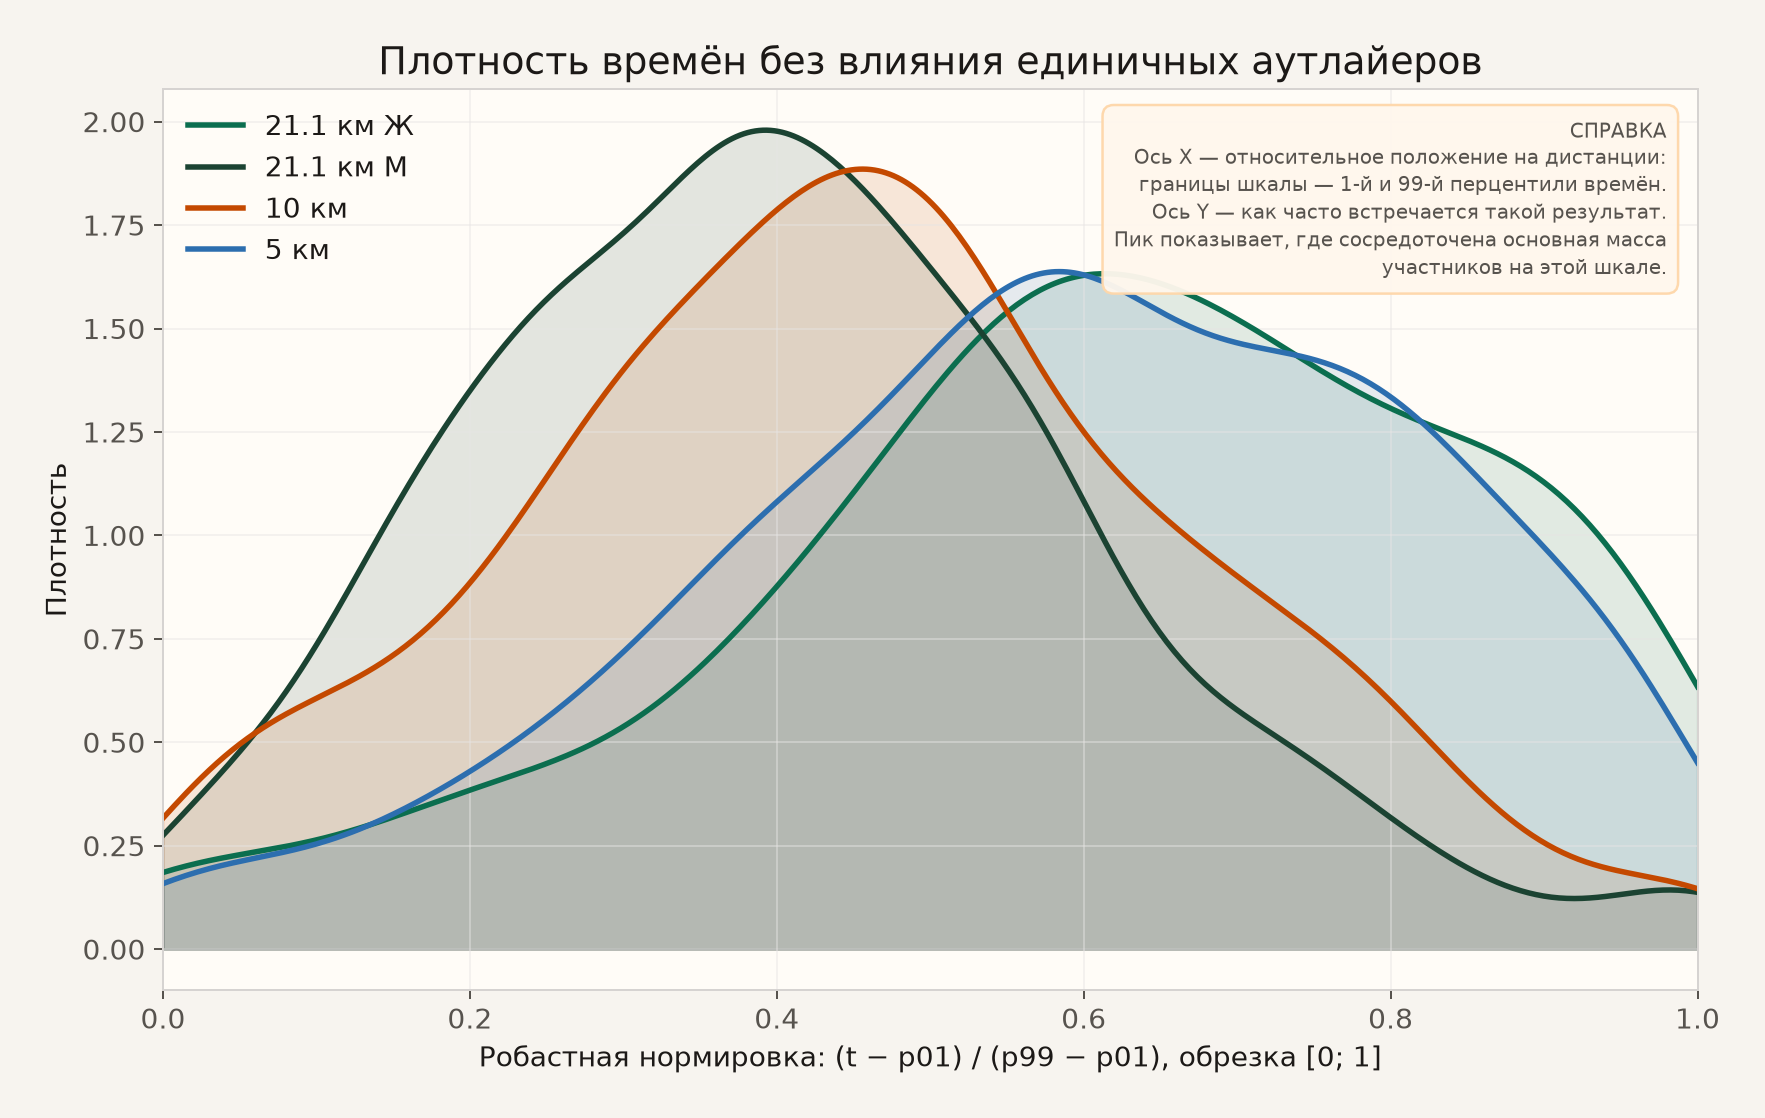
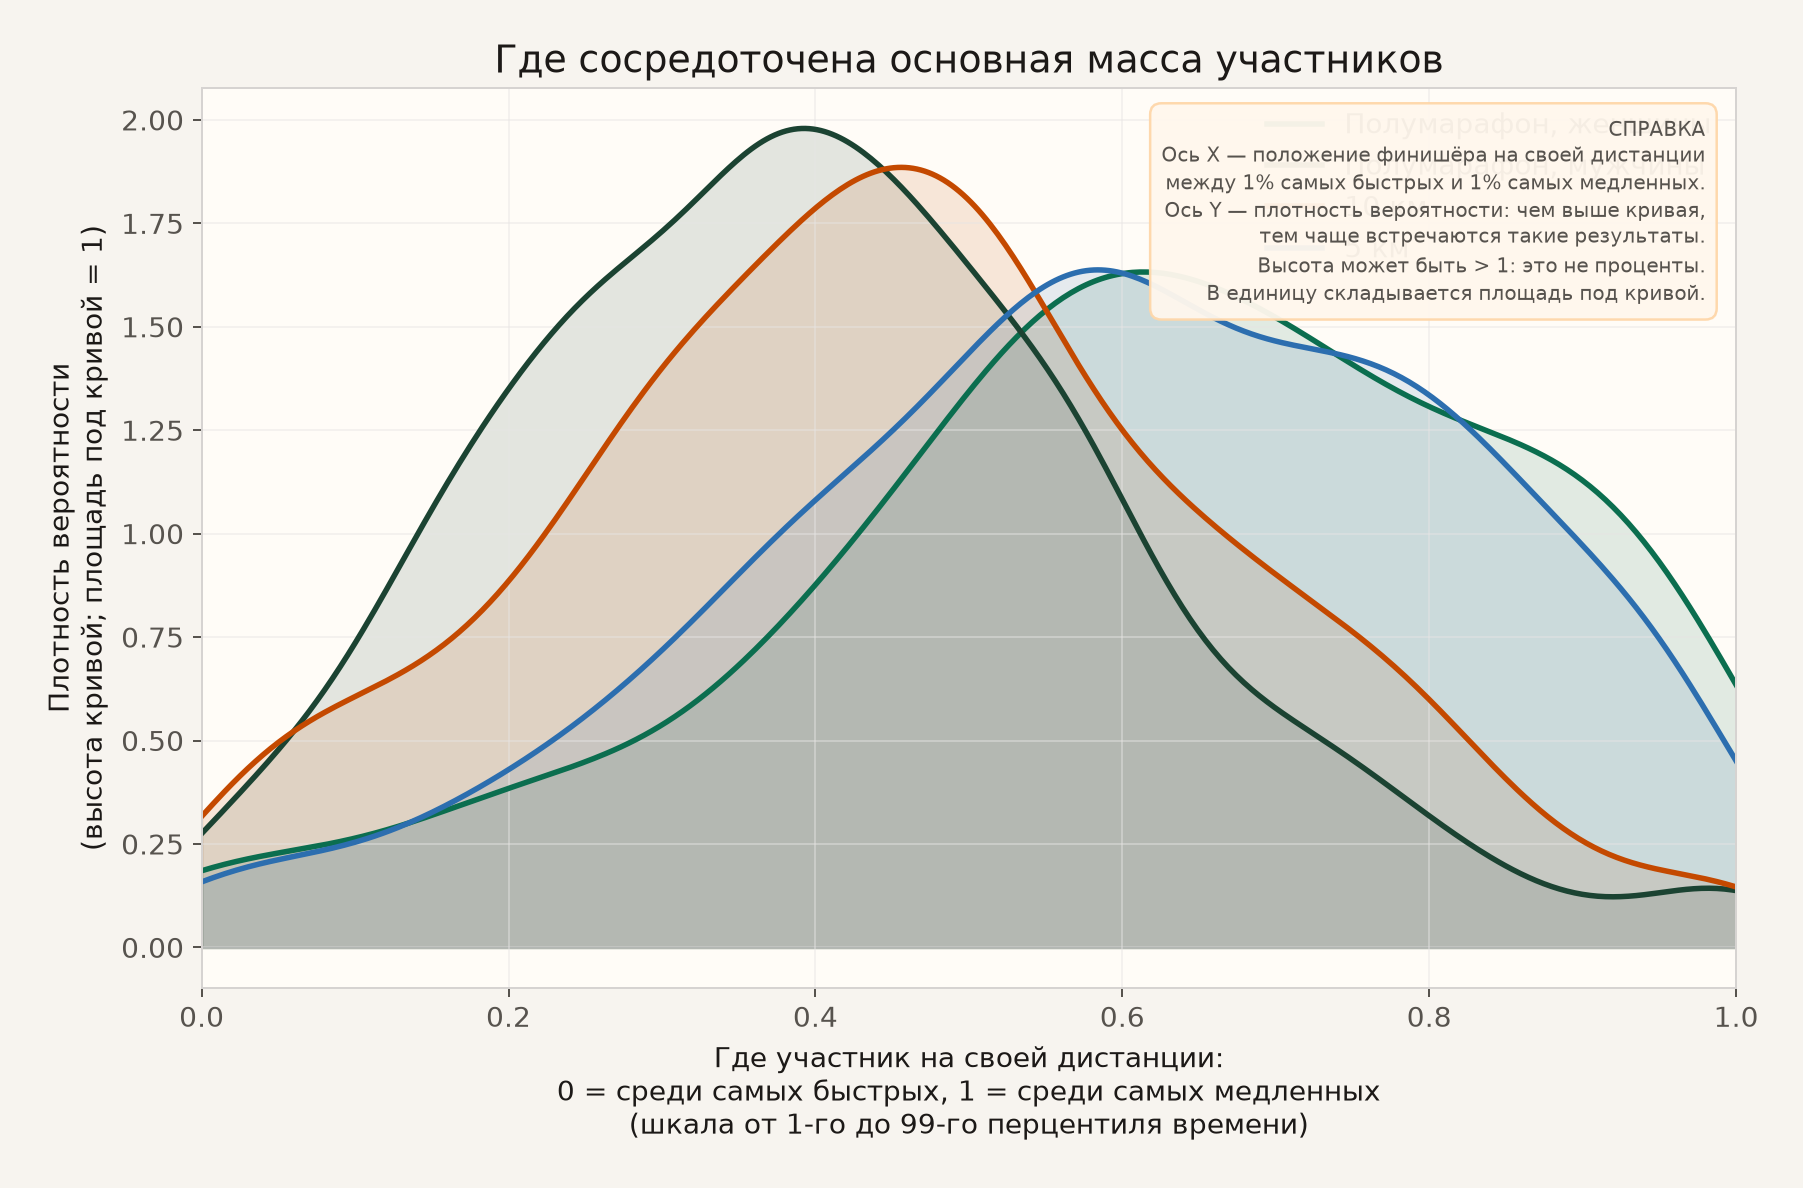
Пояснить ось плотности: высота может быть > 1

diff --git a/src/plot_analysis.py b/src/plot_analysis.py
@@ -539,22 +539,30 @@ def plot_kde_p1p99(df: pd.DataFrame) -> None:
         if len(g) < 20:
             continue
         kde = stats.gaussian_kde(g.clip(0, 1))
-        ax.plot(xs, kde(xs), lw=2.2, color=COLORS[race], label=race)
+        ax.plot(xs, kde(xs), lw=2.2, color=COLORS[race], label=RACE_LABEL[race].replace("\n", " "))
         ax.fill_between(xs, kde(xs), alpha=0.12, color=COLORS[race])
-    ax.set_xlabel("Робастная нормировка: (t − p01) / (p99 − p01), обрезка [0; 1]")
-    ax.set_ylabel("Плотность")
-    ax.set_title("Плотность времён без влияния единичных аутлайеров")
+    ax.set_xlabel(
+        "Где участник на своей дистанции:\n"
+        "0 = среди самых быстрых, 1 = среди самых медленных\n"
+        "(шкала от 1-го до 99-го перцентиля времени)"
+    )
+    ax.set_ylabel(
+        "Плотность вероятности\n"
+        "(высота кривой; площадь под кривой = 1)"
+    )
+    ax.set_title("Где сосредоточена основная масса участников")
     ax.set_xlim(0, 1)
     ax.grid(True, alpha=0.45)
     ax.legend(frameon=False)
     add_note(
         ax,
         "СПРАВКА\n"
-        "Ось X — относительное положение на дистанции:\n"
-        "границы шкалы — 1-й и 99-й перцентили времён.\n"
-        "Ось Y — как часто встречается такой результат.\n"
-        "Пик показывает, где сосредоточена основная масса\n"
-        "участников на этой шкале.",
+        "Ось X — положение финишёра на своей дистанции\n"
+        "между 1% самых быстрых и 1% самых медленных.\n"
+        "Ось Y — плотность вероятности: чем выше кривая,\n"
+        "тем чаще встречаются такие результаты.\n"
+        "Высота может быть > 1: это не проценты.\n"
+        "В единицу складывается площадь под кривой.",
         "upper right",
     )
     save(fig, "02_kde_p1p99")
@@ -697,17 +705,18 @@ def plot_pace(df: pd.DataFrame) -> None:
         g = g[g <= g.quantile(0.99)]
         ax.hist(g, bins=35, density=True, alpha=0.35, color=COLORS[race], label=race)
     ax.set_xlabel("Темп, мин/км")
-    ax.set_ylabel("Плотность")
+    ax.set_ylabel("Плотность вероятности\n(площадь под кривой = 1)")
     ax.set_title("Распределение темпа (мин/км)")
     ax.legend(frameon=False)
     ax.grid(True, alpha=0.45)
     add_note(
         ax,
         "СПРАВКА\n"
-        "Ось X — темп в мин/км, ось Y — относительная частота.\n"
-        "Гистограммы по категориям наложены друг на друга,\n"
-        "чтобы сравнить, какой темп типичен на каждой\n"
-        "дистанции. Показаны данные до 99-го перцентиля.",
+        "Ось X — темп в мин/км.\n"
+        "Ось Y — плотность вероятности: выше = чаще\n"
+        "такой темп. Высота может быть > 1 — это не\n"
+        "доля в процентах; в единицу складывается\n"
+        "площадь. Показаны данные до 99-го перцентиля.",
         "upper right",
     )
     save(fig, "06_pace_hist")
